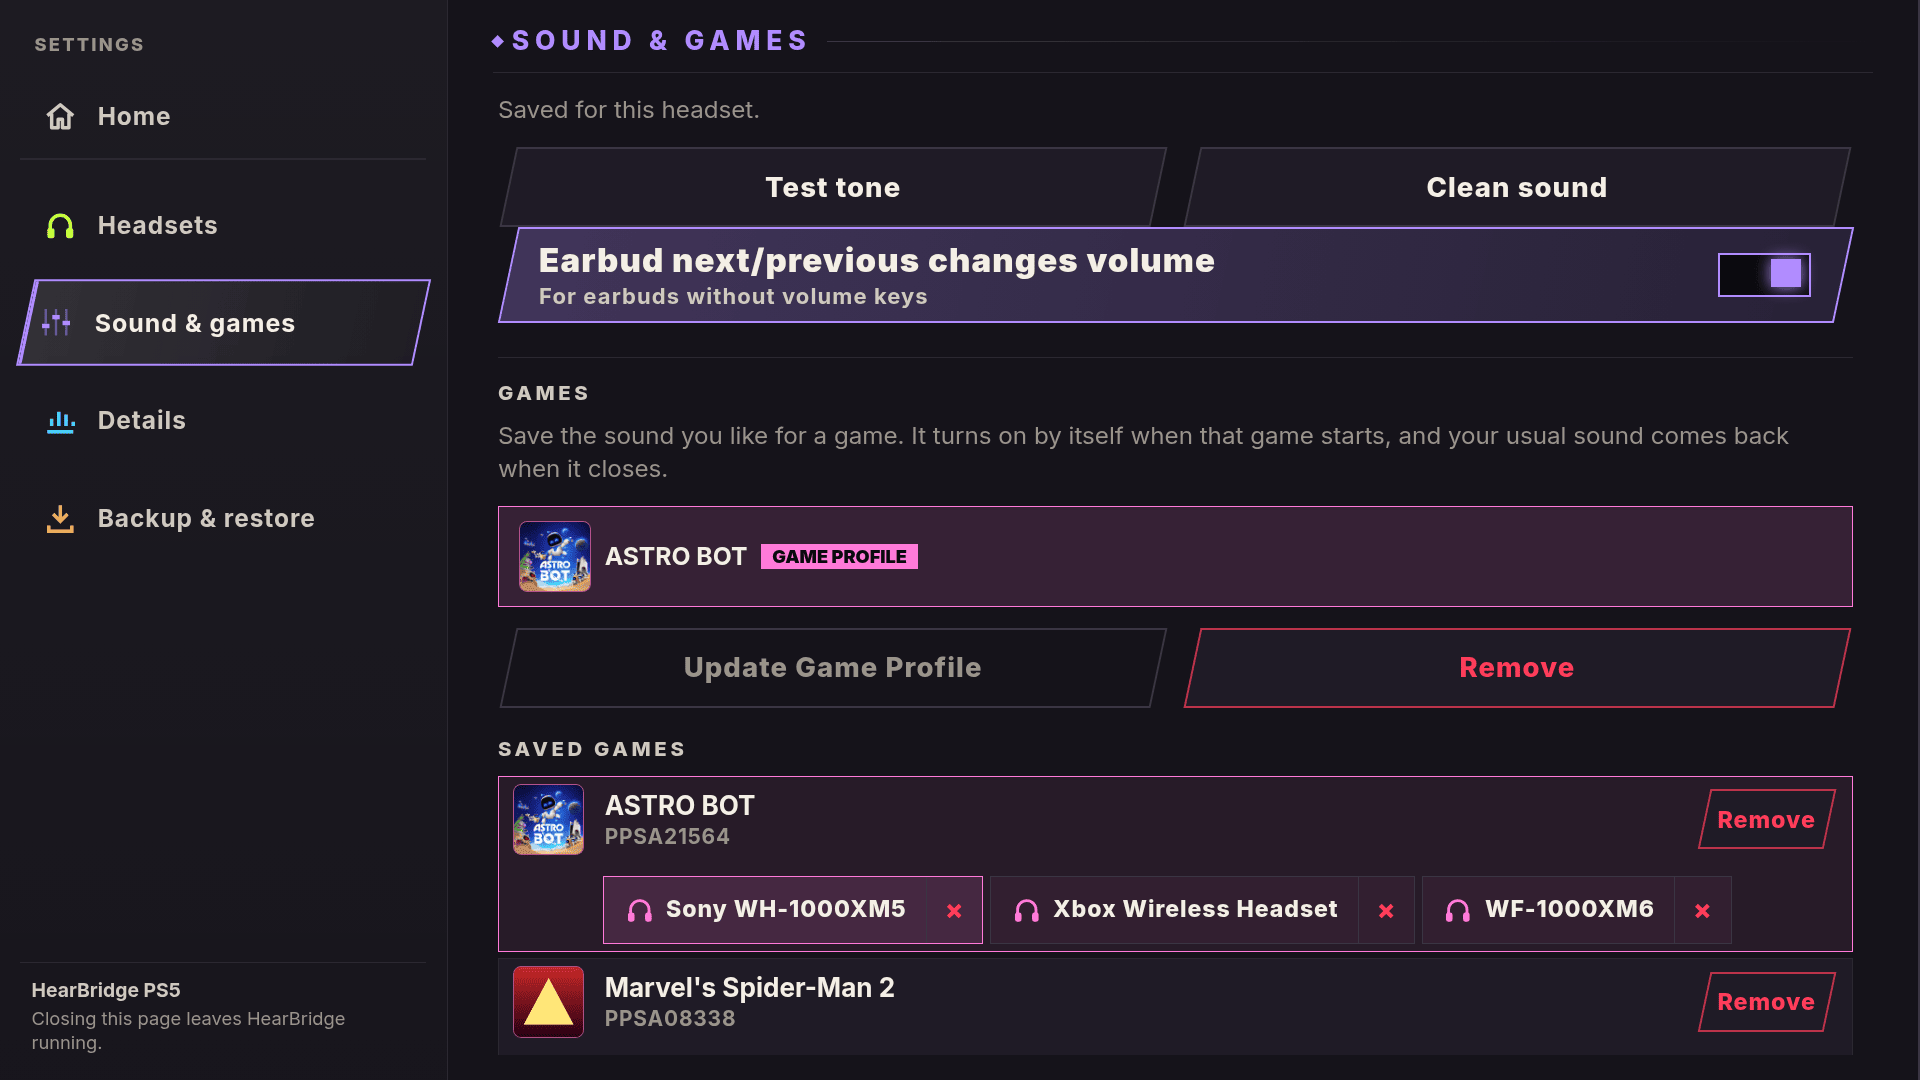
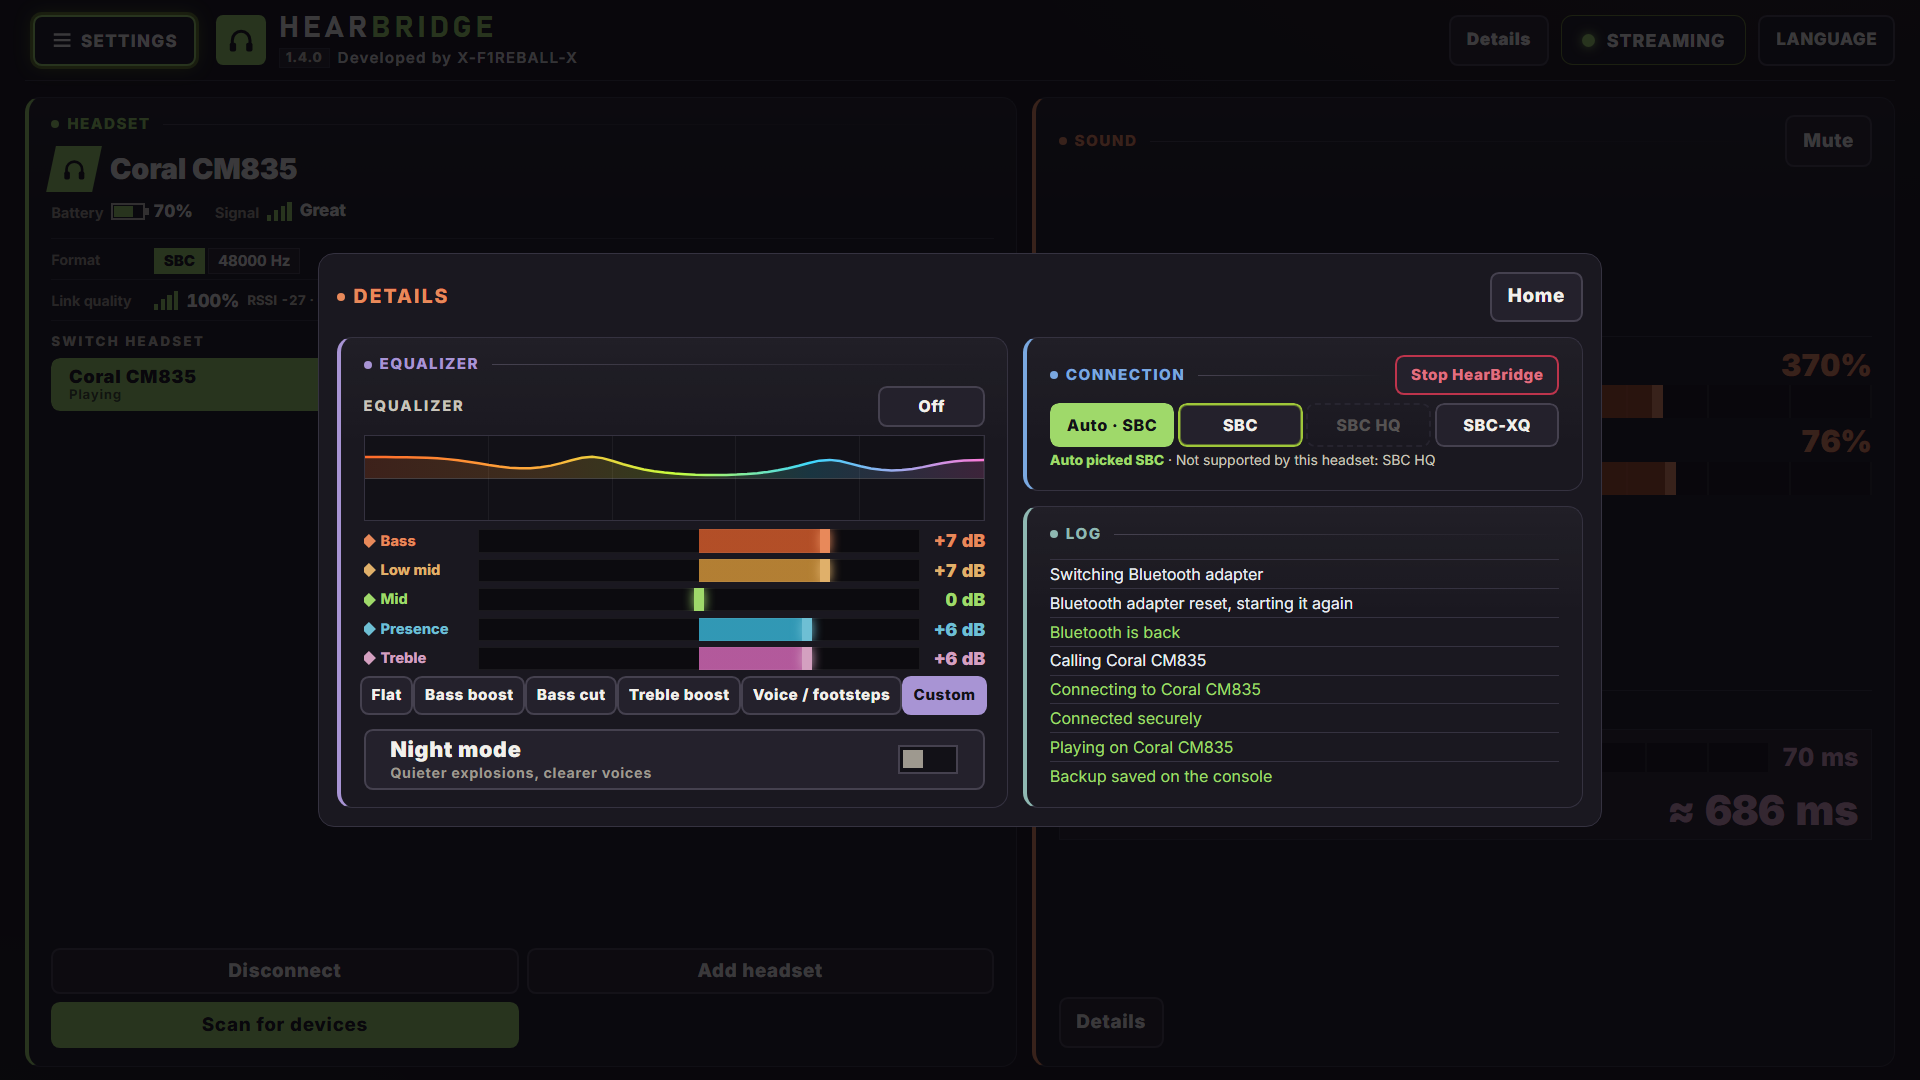
docs: 1.4.0 README and fresh UI screenshots
Update the README for USB adapters (Realtek and CSR), the adapter
picker with shared pairing, and the single-screen UI. Replace the
home, Details and adapter screenshots from a live 1920x1080 capture.

diff --git a/README.md b/README.md
@@ -6,23 +6,29 @@
 
 Developed by **X-F1REBALL-X**
 
-🇺🇸 **English** · 🇸🇦 [العربية](README.ar.md) · 🇪🇸 [Español](README.es.md) · 🇫🇷 [Français](README.fr.md) · 🇩🇪 [Deutsch](README.de.md) · 🇧🇷 [Português](README.pt.md) · 🇷🇺 [Русский](README.ru.md) · 🇯🇵 [日本語](README.ja.md) · 🇨🇳 [中文](README.zh.md) · 🇮🇹 [Italiano](README.it.md)
+🇺🇸 **English** · 🇸🇦 [العربية](README.ar.md)
 
 </div>
 
 **HearBridge family:** [PS5](https://github.com/X-F1REBALL-X/HearBridge-PS5) · [PS4](https://github.com/X-F1REBALL-X/HearBridge-PS4) · [Browser](https://github.com/X-F1REBALL-X/HearBridge-Browser)
 
+HearBridge PS5 is a payload (ELF) that plays your PS5's game and system audio on regular Bluetooth headphones, using the console's own Bluetooth or a USB stick. You control it from a web page served by the console.
 
-HearBridge PS5 is a payload (ELF) that plays your PS5's game and system audio on regular Bluetooth headphones, using the console's own Bluetooth. You control it from a web page served by the console.
-
-<p align="center"><img src="docs/img/ui-tv.png" alt="HearBridge PS5 web page" width="440"> <img src="docs/img/ui-settings.png" alt="HearBridge PS5 web page" width="440"></p>
+<p align="center">
+<img src="docs/img/ui-tv.png" alt="HearBridge home" width="440">
+<img src="docs/img/ui-details.png" alt="HearBridge Details" width="440">
+</p>
+<p align="center">
+<img src="docs/img/ui-adapter.png" alt="Bluetooth adapter picker" width="640">
+</p>
 
 ## Highlights
 
-- One file for every PS5, Marvell/NXP or MediaTek Bluetooth.
-- **USB Bluetooth adapters too**, including Realtek sticks that boot in ROM mode.
-- Game profiles: your sound follows the game and the headset.
-- Battery percent, night mode and one-tap headset switching.
+- One file for every PS5 (Marvell/NXP or MediaTek Bluetooth).
+- **USB Bluetooth adapters:** Realtek RTL8761BU (bundled firmware) and CSR8510, plus the console chip.
+- **Adapter picker** in Settings with instant switching; one pairing shared across adapters.
+- Single-screen UI for a 1080p TV: larger controls, Details panel for EQ, codecs and the log.
+- Game profiles, battery percent, night mode and one-tap headset switching.
 
 ## Install
 
@@ -34,56 +40,36 @@ Everything else, from features to troubleshooting, is in the **[guide](https://x
 
 ## USB Bluetooth adapter
 
-Plug in a USB Bluetooth adapter and HearBridge uses it automatically; without
-one it uses the console's own chip. An adapter is not shared with the console's
-gamepad, so the controller can connect and reconnect normally while audio is
-streaming.
+Plug in a USB stick and HearBridge can use it instead of the console chip. The stick is not shared with the DualSense, so the controller keeps connecting normally while audio streams.
 
-Pick the controller under **Settings > Details > Bluetooth adapter**:
-**Auto** (USB stick when one is plugged in, else the console chip), **Console
-chip**, **USB adapter**, or a listed ugen node when more than one stick is
-present. A change is written to `/data/hearbridge/adapter` and Bluetooth is
-restarted. You can still create that file by hand with one line:
+Supported sticks today:
+
+- **Realtek RTL8761BU** (UB500 / UB600, USB id `0BDA:B00C` / `0BDA:8771`) — firmware is **bundled in the ELF** and written to `/data/hearbridge/firmware/` on start.
+- **CSR8510** — works as a plain USB HCI adapter, no extra firmware.
+
+Under **Settings → Details → Bluetooth adapter** pick **Auto**, **Console chip**, or a listed stick (for example Realtek / CSR). The change is saved to `/data/hearbridge/adapter` and Bluetooth restarts right away. Pairing is shared across adapters, so you do not have to pair the same headset again after switching.
+
+You can still set the preference by hand with one line in `/data/hearbridge/adapter`:
 
 ```text
-auto        # default: a USB adapter if one is present, else the console chip
-internal    # always the console's own chip
-usb         # always a USB adapter (start fails if there is none)
+auto        # USB stick when present, else the console chip
+internal    # always the console chip
+usb         # always a USB adapter
 ugen1.2     # one specific ugen node
 ```
 
-The same Details page shows which adapter is in use and its chip under **Chip**.
-
 ### Realtek ROM-only adapters
 
-Some Realtek sticks (RTL8761BU/UB500/UB600 and other USB parts) start in a ROM
-mode that answers Bluetooth commands but cannot scan until a patch is uploaded.
-HearBridge uploads it the same way Linux's `btrtl` does, from files under
-`/data/hearbridge/firmware/`.
-
-For the RTL8761BU (UB500/UB600, USB id `0BDA:B00C` / `0BDA:8771`) the matching
-files are **bundled in the ELF** and written there automatically on start:
+Some Realtek sticks start in ROM mode and need a patch before they can scan. HearBridge uploads it the same way Linux `btrtl` does. For RTL8761BU the files are bundled:
 
 ```text
 /data/hearbridge/firmware/rtl8761bu_fw.bin
 /data/hearbridge/firmware/rtl8761bu_config.bin
 ```
 
-No manual copy is needed for that stick. Other Realtek USB parts the loader
-knows still need their files placed there by hand. Those files are in the
-`linux-firmware` package (`/lib/firmware/rtl_bt/` on Linux, `firmware-realtek`
-on Debian and Ubuntu) or in the
-[`rtl_bt` tree of linux-firmware](https://git.kernel.org/pub/scm/linux/kernel/git/firmware/linux-firmware.git/tree/rtl_bt).
-The adapter name and the file it needs are in the log
-(`/data/hearbridge/hearbridge.log`). Only the RTL8761BU (the UB600) has been
-tested on hardware. The loader also knows the other USB chips in Linux's
-`btrtl` table, but they are untested; in particular the secure-boot parts
-(RTL8852AU/BU/CU, RTL8851BU, RTL8922AU, RTL8852BTU) take their patch from the
-key-id security sections, a path that has not been run on a console yet.
-
-Pairing keys belong to one Bluetooth controller. A headset paired with the
-console's chip may have to be paired once more after switching to a USB adapter
-(or the other way round).
+Other Realtek USB parts the loader knows still need their blobs from
+[`linux-firmware` `rtl_bt`](https://git.kernel.org/pub/scm/linux/kernel/git/firmware/linux-firmware.git/tree/rtl_bt)
+placed under `/data/hearbridge/firmware/`. Only RTL8761BU has been tested on hardware.
 
 ## Build
 

diff --git a/README.ar.md b/README.ar.md
@@ -1,57 +1,56 @@
 <div align="center">
 
-<img src="assets/icon0.png" width="128" alt="HearBridge icon">
+<img src="docs/img/banner.png" alt="HearBridge PS5">
 
-# HearBridge PS5
+**سماعات بلوتوث لـ PS5 مكسور الحماية: صوت اللعبة والنظام، بدون دونغل.**
 
-**سماعات بلوتوث لجهاز PS5 مكسور الحماية: صوت الألعاب والنظام، بدون دونجل.**
+طوره **X-F1REBALL-X**
 
-تطوير **X-F1REBALL-X**
-
-🇺🇸 [English](README.md) · 🇸🇦 **العربية** · 🇪🇸 [Español](README.es.md) · 🇫🇷 [Français](README.fr.md) · 🇩🇪 [Deutsch](README.de.md) · 🇧🇷 [Português](README.pt.md) · 🇷🇺 [Русский](README.ru.md) · 🇯🇵 [日本語](README.ja.md) · 🇨🇳 [中文](README.zh.md) · 🇮🇹 [Italiano](README.it.md)
+🇺🇸 [English](README.md) · 🇸🇦 **العربية**
 
 </div>
 
-<div dir="rtl">
+**عائلة HearBridge:** [PS5](https://github.com/X-F1REBALL-X/HearBridge-PS5) · [PS4](https://github.com/X-F1REBALL-X/HearBridge-PS4) · [Browser](https://github.com/X-F1REBALL-X/HearBridge-Browser)
 
-HearBridge PS5 حمولة (ELF) تشغّل صوت الألعاب والنظام في PS5 على سماعات بلوتوث عادية، باستخدام بلوتوث الجهاز نفسه. تتحكم بها من صفحة ويب يقدمها الجهاز.
+HearBridge PS5 هو ملف (ELF) يشغّل صوت اللعبة والنظام على سماعات بلوتوث عادية، عبر شريحة الكونسول أو محول USB. التحكم من صفحة ويب على الكونسول.
 
-<p align="center"><img src="docs/img/ui-tv.png" alt="صفحة ويب HearBridge PS5" width="440"> <img src="docs/img/ui-settings.png" alt="صفحة ويب HearBridge PS5" width="440"></p>
+<p align="center">
+<img src="docs/img/ui-tv.png" alt="واجهة HearBridge" width="440">
+<img src="docs/img/ui-details.png" alt="تفاصيل HearBridge" width="440">
+</p>
+<p align="center">
+<img src="docs/img/ui-adapter.png" alt="اختيار محول البلوتوث" width="640">
+</p>
 
-## أبرز الميزات
+## أبرز المزايا
 
-- ملف واحد لكل أجهزة PS5، ببلوتوث Marvell/NXP أو MediaTek.
-- ملفات الألعاب: صوتك يتبع اللعبة والسماعة.
-- نسبة البطارية والوضع الليلي وتبديل السماعة بلمسة واحدة.
+- ملف واحد لكل PS5 (Marvell/NXP أو MediaTek).
+- **محولات USB:** Realtek RTL8761BU (فيرموير مدمج) وCSR8510، بالإضافة لشريحة الكونسول.
+- **اختيار المحول** من الإعدادات مع تبديل فوري؛ اقتران واحد مشترك بين المحولات.
+- واجهة شاشة واحدة لـ 1080p مع عناصر أكبر ولوحة تفاصيل (EQ والترميز والسجل).
+- ملفات ألعاب، نسبة البطارية، الوضع الليلي وتبديل سريع للسماعة.
 
 ## التثبيت
 
-1. نزّل **HearBridge-1.4.0.elf** من [أحدث إصدار](https://github.com/X-F1REBALL-X/HearBridge-PS5/releases/latest).
+1. نزّل **HearBridge-1.4.0.elf** من [آخر إصدار](https://github.com/X-F1REBALL-X/HearBridge-PS5/releases/latest).
 2. أرسله إلى محمّل ELF على المنفذ 9021.
-3. افتح **http://&lt;console-ip&gt;:8090** أو مربع **HearBridge**، ثم اقرن سماعاتك من **الإعدادات**.
+3. افتح **http://&lt;console-ip&gt;:8090** أو بلاطة **HearBridge**، ثم اربط السماعة من **الإعدادات**.
 
-كل ما تبقى، من الميزات إلى حل المشكلات، موجود في **[الدليل](https://x-f1reball-x.github.io/HearBridge-PS5/)**.
+التفاصيل الكاملة في **[الدليل](https://x-f1reball-x.github.io/HearBridge-PS5/)**.
 
-## البناء
+## محول بلوتوث USB
 
-</div>
+وصل عصا USB ويمكن لـ HearBridge استخدامها بدل شريحة الكونسول. العصا غير مشتركة مع DualSense، فيبقى يد التحكم يعمل أثناء البث.
 
-```sh
-export PS5_PAYLOAD_SDK=/opt/ps5-payload-sdk   # ps5-payload-sdk v0.43
-make ps5      # dist/HearBridge-<version>.elf
-make test
-```
+المحولات المدعومة:
 
-<div dir="rtl">
+- **Realtek RTL8761BU** — الفيرموير مدمج في الـ ELF.
+- **CSR8510** — محول HCI عادي بدون فيرموير إضافي.
 
-## شكر
+من **الإعدادات → التفاصيل → محول البلوتوث** اختر تلقائي أو شريحة الكونسول أو العصا. الاقتران مشترك بين المحولات.
 
-إيقاف البحث مؤقتا في MediaTek وإصلاح قناة USB وأداة تصحيح HCI، بواسطة [ZiZc3](https://github.com/ZiZc3) ([#6](https://github.com/X-F1REBALL-X/HearBridge-PS5/pull/6))
-
-## الترخيص
+## الرخصة
 
 GPL-3.0-or-later. انظر [LICENSE](LICENSE) و[NOTICE](NOTICE).
 
-[ادعم المشروع على Ko-fi](https://ko-fi.com/xf1reballx). يبقى المشروع مجانيًا ومفتوح المصدر.
-
-</div>
+[ادعم المشروع على Ko-fi](https://ko-fi.com/xf1reballx). المشروع يبقى مجانياً ومفتوح المصدر.
